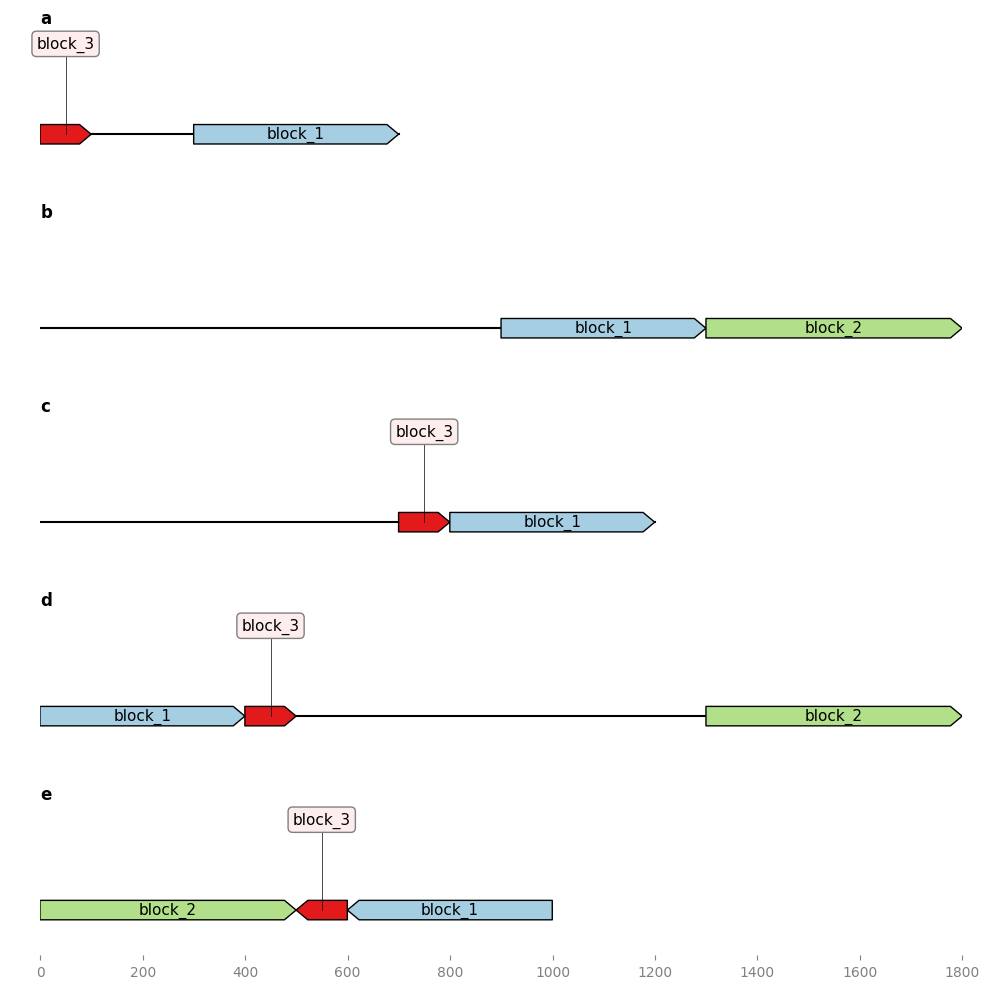
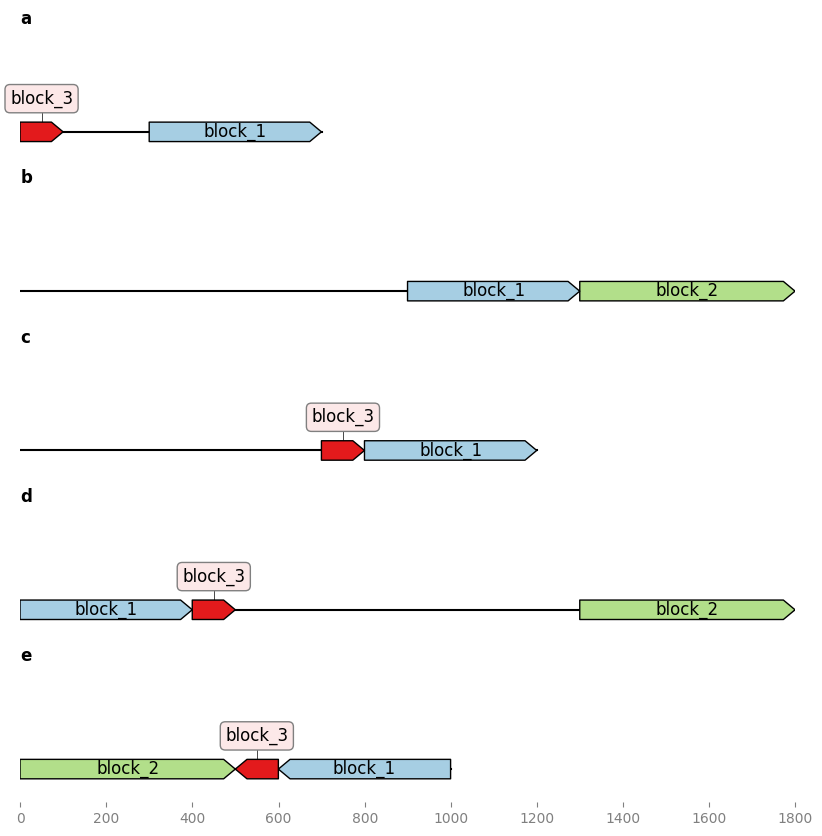
v1.1.2 - Patches to reflect the new version of DNA features viewer

diff --git a/geneblocks/DiffBlocks/DiffBlocks.py b/geneblocks/DiffBlocks/DiffBlocks.py
@@ -2,6 +2,7 @@ from copy import deepcopy
 
 import matplotlib.pyplot as plt
 import matplotlib.gridspec as gridspec
+import numpy as np
 
 from ..Location import Location
 from ..biotools import sequence_to_record
@@ -239,6 +240,8 @@ class DiffBlocks:
             max_level_2 = (
                 max([1] + [v["annotation_y"] for v in stats2[1].values()]) + 2
             )
+            max_level_1 = int(np.round(max_level_1))
+            max_level_2 = int(np.round(max_level_2))
             # print (stats2)
             n_levels = max_level_1 + max_level_2
             if max_level_1 and max_level_2:
@@ -248,7 +251,7 @@ class DiffBlocks:
                 easing = 3
                 gs = gridspec.GridSpec(n_levels + 2 * easing, 1)
                 fig = plt.figure(
-                    figsize=(width, 1 + 0.4 * n_levels), facecolor="w"
+                    figsize=(width, 1 + 0.5 * n_levels), facecolor="w"
                 )
                 ax1 = fig.add_subplot(gs[: max_level_1 + easing])
                 ax2 = fig.add_subplot(gs[max_level_1 + easing :])

diff --git a/examples/complex_sequences.py b/examples/complex_sequences.py
@@ -1,6 +1,9 @@
 from geneblocks import DiffBlocks, CommonBlocks, random_dna_sequence
 import geneblocks.sequence_modification_utils as smu
 import matplotlib.pyplot as plt
+import numpy
+
+numpy.random.seed(1)  # ensures the sequences will be the same at each run
 
 # GENERATE 2 "SISTER" SEQUENCES FOR THE EXAMPLE
 seq1 = random_dna_sequence(50000)
@@ -20,7 +23,7 @@ common_blocks = CommonBlocks.from_sequences({'seq1': seq1, 'seq2': seq2})
 diff_blocks = DiffBlocks.from_sequences(seq1, seq2).merged()
 
 # PLOT EVERYTHING
-fig, axes = plt.subplots(3, 1, figsize=(15, 8))
+fig, axes = plt.subplots(3, 1, figsize=(16, 8))
 common_blocks.plot_common_blocks(axes=axes[:-1])
 diff_blocks.plot(ax=axes[-1], separate_axes=False)
 axes[-1].set_xlabel("Changes in seq2 vs. seq1")

diff --git a/geneblocks/CommonBlocks/CommonBlocks.py b/geneblocks/CommonBlocks/CommonBlocks.py
@@ -227,7 +227,7 @@ class CommonBlocks:
                 x_lim=(0, max([len(rec) for rec in self.records.values()])),
                 with_ruler=(ax == axes[-1]),
             )
-            ax.set_ylim(top=ax.get_ylim()[1] + 1)
+            ax.set_ylim(top=ax.get_ylim()[1])
             ax.set_title(seqname, loc="left", fontdict=dict(weight="bold"))
         # fig.tight_layout()
         return axes

diff --git a/geneblocks/version.py b/geneblocks/version.py
@@ -1,1 +1,1 @@
-__version__ = "1.1.1"
+__version__ = "1.1.2"
